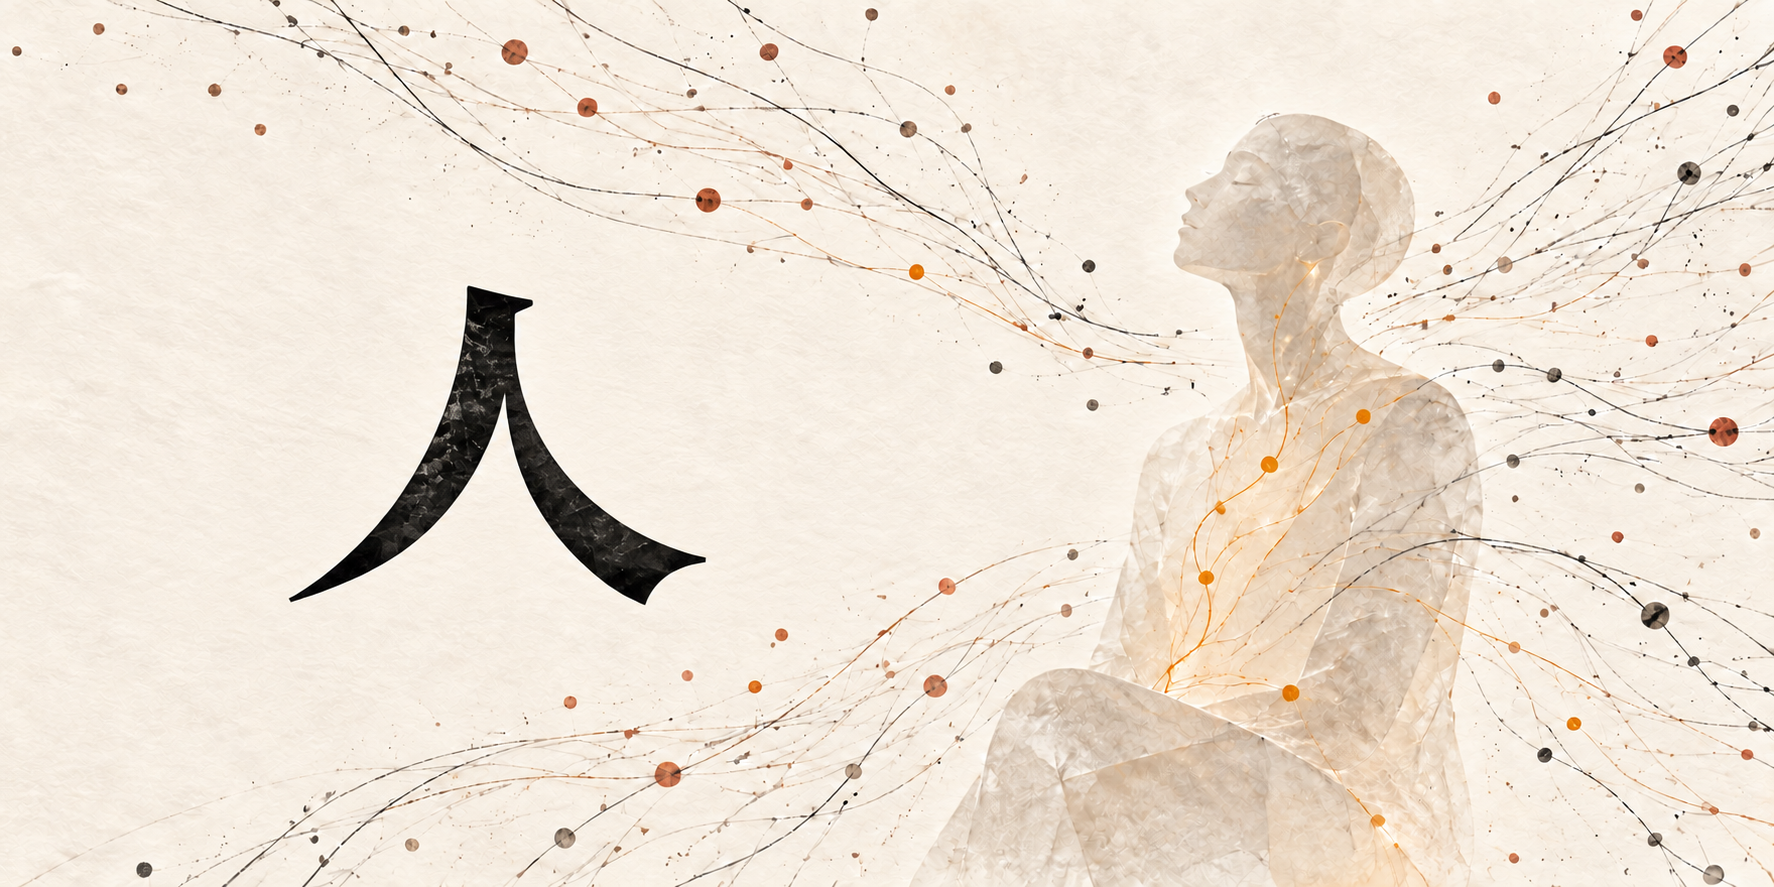
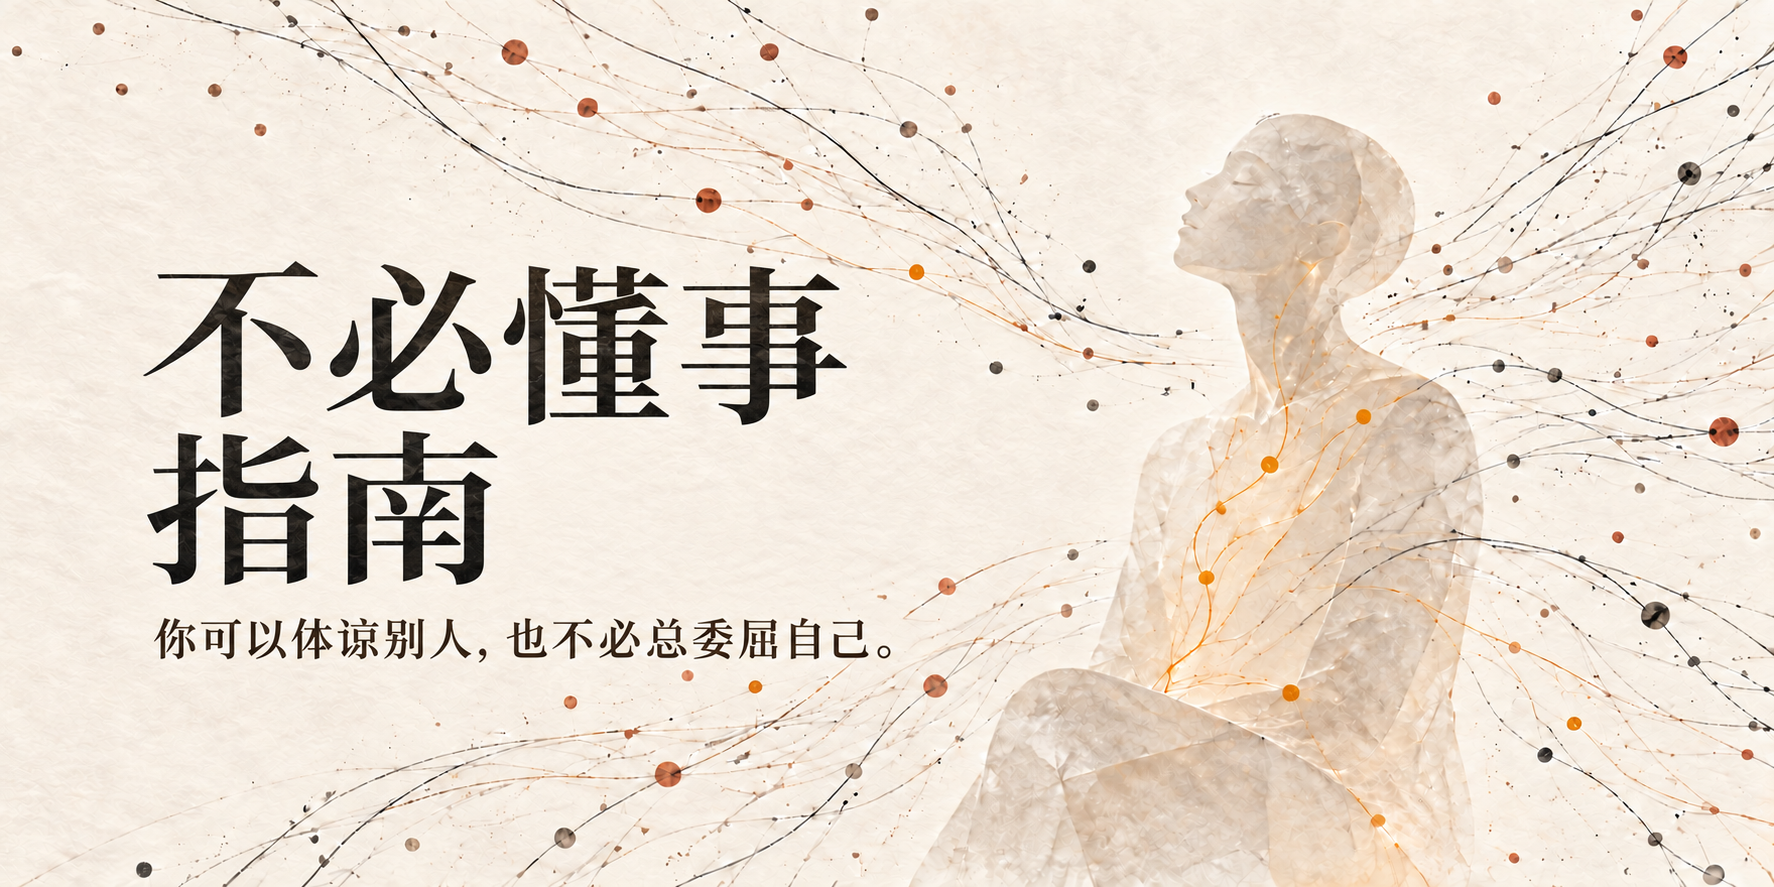
docs: rename Chinese handbook and prioritize Chinese reading

diff --git a/README.md b/README.md
@@ -1,30 +1,24 @@
-| [简体中文 · 人](./人.md) | [English · Human Enough](./human.en.md) |
-| :---: | :---: |
-| [![人：暖象牙白与陶土色封面](./assets/cover-zh.png)](./人.md) | [![Human Enough: mist blue, sage and gold cover](./assets/cover-en.png)](./human.en.md) |
+[![不必懂事指南：暖象牙白与陶土色封面](./assets/cover-zh.png)](./人.md)
 
-# Human Enough｜人
+# 不必懂事指南
 
 [![License: CC BY-SA 4.0](https://img.shields.io/badge/License-CC_BY--SA_4.0-lightgrey.svg)](https://creativecommons.org/licenses/by-sa/4.0/deed.zh-hans)
 
-**你接收到了很多信息，但你不欠每一条信息一个回应。**
-
-**You take in a lot of information. You don't owe every signal a response.**
+**你可以体谅别人，也不必总委屈自己。**
 
 一份写给容易注意到细节、习惯承担责任、反复解释自己的人的生活手册。
 
+不必懂事，是不必用忽略自己的需要，来换取别人的满意。该承担的责任仍然需要承担；体谅别人时，也可以给自己的需要留一个位置。
+
 它讨论：没回的消息、别人的情绪、拒绝后的愧疚、停不下来的复盘，以及那些让休息也变成考试的自我要求。
 
-A handbook for people who notice the details, take on responsibility, and keep explaining themselves. It explores unanswered messages, other people's feelings, guilt after saying no, endless mental replays, and the expectations that turn even rest into a test.
+## 阅读
 
-## 阅读 / Read
-
-### [简体中文：《人》](./人.md) · [English: Human Enough](./human.en.md)
+### [阅读全文：《不必懂事指南》](./人.md)
 
 每章从一个具体场景开始，留下一条可以采取的行动，以及一个可以结束处理的位置。
 
-Each chapter starts with an everyday scene, offers a possible action, and gives you a place to stop processing it.
-
-## 你会读到 / Chapters
+## 你会读到
 
 - 你看见了，不代表你要负责。
 - 没有人给你打分的时候，你也在交卷。
@@ -37,57 +31,28 @@ Each chapter starts with an everyday scene, offers a possible action, and gives 
 - 你已经很累了，不需要再成为一个更好的人。
 - 有些环境，确实需要离开。
 
-- Noticing it doesn't make it your responsibility.
-- No one is grading you, but you're still handing in the assignment.
-- You can disappoint someone without being a bad person.
-- Someone frowns, and you rewrite your entire life.
-- You don't have to keep proving you meant well.
-- Not every uncomfortable feeling needs to disappear immediately.
-- Some questions won't become clearer with more thinking.
-- You were the good kid; now you can learn to be a beginner.
-- You're already tired; you don't have to become a better person today.
-- Some environments really do need to be left.
+## 关于这份文档
 
-## 关于这份文档 / About
-
-当前为第一版，欢迎讨论和修订。这里的“高敏感”是生活体验的称呼，不是诊断；不需要先完成一个人格测试才能阅读。
+本手册原名《人》，现更名为《不必懂事指南》。欢迎讨论和修订。这里的“高敏感”是生活体验的称呼，不是诊断；不需要先完成一个人格测试才能阅读。
 
 正文区分生活整理与参考依据，不把“早熟的人一般都晚熟”当作心理学定律，也不把现实中的伤害归咎于个人敏感。专业支持的边界与参考资料见正文末尾。
 
-This is the first edition, open to discussion and revision. “High sensitivity” describes a lived experience here, not a diagnosis. No personality test is required. The text distinguishes everyday observations from reference material, treats sayings about early and late maturity as reflections rather than psychological laws, and does not blame real harm on someone's sensitivity. References and the limits of self-help appear at the end of each edition.
-
-## 如何参与 / Contributing
+## 如何参与
 
 欢迎通过 Issue 或 Pull Request 提交具体场景、反例、文字修改与有来源的参考材料。请说明建议适用于什么情况；分享经历时请去除个人身份、私人聊天和其他敏感信息。
 
 我们希望每个条目帮助读者少背一个不必要的任务。
 
-Issues and pull requests are welcome: specific scenes, counterexamples, wording improvements, and sourced references. Explain where your suggestion applies, and remove identifying details, private conversations, and other sensitive information from shared experiences. Translation improvements are welcome too.
+## 许可与转载
 
-We hope each entry helps readers put down one unnecessary obligation.
-
-## 许可与转载 / License and reuse
-
-© 2026 Chorylee7 与《人》贡献者。除另有注明外，本仓库的原创文字采用 [知识共享署名—相同方式共享 4.0 国际许可（CC BY-SA 4.0）](https://creativecommons.org/licenses/by-sa/4.0/deed.zh-hans)，完整条款见 [LICENSE](./LICENSE)。
+© 2026 Chorylee7 与《不必懂事指南》贡献者。除另有注明外，本仓库的原创文字采用 [知识共享署名—相同方式共享 4.0 国际许可（CC BY-SA 4.0）](https://creativecommons.org/licenses/by-sa/4.0/deed.zh-hans)，完整条款见 [LICENSE](./LICENSE)。
 
 允许转载、翻译、改编及商业使用；分享时请保留署名、来源和许可信息，标明修改，并按许可要求以相同或兼容的许可分享改编作品。不得暗示原作者为改编或使用背书。内容按现状提供，不作保证，具体以 LICENSE 为准。
 
 署名示例：
 
-> 来源：《人》，Chorylee7 与贡献者，https://github.com/Chorylee7/human-enough，CC BY-SA 4.0。本版本修改了……（未修改时注明“未修改”）。
+> 来源：《不必懂事指南》，Chorylee7 与贡献者，https://github.com/Chorylee7/human-enough，CC BY-SA 4.0。本版本修改了……（未修改时注明“未修改”）。
 
 外部链接指向的资料不属于本仓库的授权范围，仍适用各自的权利声明。`assets/` 中的封面为 AI 生成；对其中本项目有权许可的部分，同样采用 CC BY-SA 4.0，不主张不存在的权利。
 
 提交贡献即表示你有权提交相应内容，并同意将其按上述许可发布。
-
-© 2026 Chorylee7 and contributors to Human Enough (人). Unless otherwise noted, original text in this repository is licensed under [CC BY-SA 4.0](https://creativecommons.org/licenses/by-sa/4.0/). See [LICENSE](./LICENSE) for the full terms.
-
-Copying, translation, adaptation, and commercial use are permitted subject to the license. Retain attribution, source and license information, indicate changes, and share adaptations under the same or a compatible license as required. Do not imply endorsement by the original authors. The material is provided as-is, without warranties; the full license governs.
-
-Example attribution:
-
-> Source: Human Enough (人), Chorylee7 and contributors, https://github.com/Chorylee7/human-enough, CC BY-SA 4.0. Changes: … (or “Unmodified”).
-
-Linked external materials retain their own rights notices and are outside this repository's license. The covers in `assets/` are AI-generated; any rights this project is entitled to license in them are also offered under CC BY-SA 4.0. No rights are claimed where none exist.
-
-By contributing, you confirm that you have the right to submit your contribution and agree to its publication under the license above.

diff --git a/human.en.md b/human.en.md
@@ -2,13 +2,17 @@
 
 # Human Enough
 
-**人 · [简体中文](./人.md) | English**
+**不必懂事指南 · [简体中文](./人.md) | English**
 
-> You take in a lot of information. You don't owe every signal a response.
+> You can care about others without always putting your own needs aside.
 
 For people who notice the details, take on responsibility, and keep explaining themselves.
 
 Perhaps you've had an evening like this: the moment is long over, but you're still replaying a sentence, examining an expression, or trying to interpret a silence. You want to make sure you haven't offended anyone, disappointed anyone, or missed something you ought to fix.
+
+The Chinese edition is titled 《不必懂事指南》 (formerly 《人》). Its title invites you to make room for your needs, rather than earn approval by always putting them aside. You remain responsible for your actions, and you can care about others while respecting your own needs.
+
+You take in a lot of information. You don't owe every signal a response.
 
 This handbook helps you sort out what calls for action, what calls for rest, and what you can leave unanswered for now.
 
@@ -217,6 +221,6 @@ The chapter titles, scenes, sample phrases, and “You can stop here” passages
 
 ## License and reuse
 
-© 2026 Chorylee7 and contributors to Human Enough (人). This text is licensed under [CC BY-SA 4.0](https://creativecommons.org/licenses/by-sa/4.0/). See [LICENSE](./LICENSE) for the full terms. Copying, translation, adaptation, and commercial use are permitted subject to the license. When sharing, retain attribution, source and license information, indicate changes, and share adaptations under the same or a compatible license as required. The material is provided as-is, without warranties. External references remain subject to their respective rights notices.
+© 2026 Chorylee7 and contributors to Human Enough (不必懂事指南). This text is licensed under [CC BY-SA 4.0](https://creativecommons.org/licenses/by-sa/4.0/). See [LICENSE](./LICENSE) for the full terms. Copying, translation, adaptation, and commercial use are permitted subject to the license. When sharing, retain attribution, source and license information, indicate changes, and share adaptations under the same or a compatible license as required. The material is provided as-is, without warranties. External references remain subject to their respective rights notices.
 
-Source: [Human Enough (人)](https://github.com/Chorylee7/human-enough), Chorylee7 and contributors. This English edition is translated and adapted from the Chinese text in this repository.
+Source: [Human Enough (不必懂事指南)](https://github.com/Chorylee7/human-enough), Chorylee7 and contributors. This English edition is translated and adapted from the Chinese text in this repository.

diff --git a/人.md b/人.md
@@ -1,16 +1,16 @@
-![人：暖象牙白与陶土色封面](./assets/cover-zh.png)
+![不必懂事指南：暖象牙白与陶土色封面](./assets/cover-zh.png)
 
-# 人
+# 不必懂事指南
 
-**Human Enough**
-
-简体中文 | [English](./human.en.md)
-
-> 你接收到了很多信息，但你不欠每一条信息一个回应。
+> 你可以体谅别人，也不必总委屈自己。
 
 给容易注意到细节、习惯承担责任、经常反复解释自己的人。
 
 你可能经历过这样的晚上：事情早就结束了，你还在重播一句话，检查一个表情，猜测一段沉默。你想确认自己没有冒犯谁，没有让谁失望，没有漏掉什么必须处理的问题。
+
+不必懂事，是不必用忽略自己的需要，来换取别人的满意。该承担的责任仍然需要承担；体谅别人时，也可以给自己的需要留一个位置。
+
+你接收到了很多信息，但你不欠每一条信息一个回应。
 
 这份手册想陪你确认：哪些事情需要行动，哪些事情需要休息，哪些事情可以暂时不知道。
 
@@ -219,6 +219,6 @@
 
 ## 许可与转载
 
-© 2026 Chorylee7 与《人》贡献者。本篇原创文字采用 [CC BY-SA 4.0](https://creativecommons.org/licenses/by-sa/4.0/deed.zh-hans)，完整条款见 [LICENSE](./LICENSE)。允许转载、翻译、改编及商业使用；分享时请保留署名、来源及许可信息，标明修改，并按许可要求以相同或兼容的许可分享改编作品。内容按现状提供，不作保证。外部参考资料适用其各自的权利声明。
+© 2026 Chorylee7 与《不必懂事指南》贡献者。本篇原创文字采用 [CC BY-SA 4.0](https://creativecommons.org/licenses/by-sa/4.0/deed.zh-hans)，完整条款见 [LICENSE](./LICENSE)。允许转载、翻译、改编及商业使用；分享时请保留署名、来源及许可信息，标明修改，并按许可要求以相同或兼容的许可分享改编作品。内容按现状提供，不作保证。外部参考资料适用其各自的权利声明。
 
-来源：[《人》](https://github.com/Chorylee7/human-enough)，Chorylee7 与贡献者。
+来源：[《不必懂事指南》](https://github.com/Chorylee7/human-enough)，Chorylee7 与贡献者。

diff --git a/assets/cover-pair-prompts.md b/assets/cover-pair-prompts.md
@@ -4,7 +4,9 @@
 
 ## 中文 / cover-zh.png
 
-> Edit this cover into the Chinese member of a coordinated pair of editorial covers. Exact title text only '人', large refined black Chinese typography in the left half. Remove English text. Preserve the 2:1 wide format, translucent paper human silhouette on the right, fine flowing threads and specks that mostly drift past, and tactile handmade paper aesthetic. Warm ivory paper, muted terracotta and apricot accents, warm graphite threads. Give the single Chinese character generous breathing room and strong visual presence. Quiet sophisticated literary cover. No other text, no watermark.
+2026-10-11 更名更新：使用 OpenAI 内置 imagegen 编辑原中文封面，输出保存为 `assets/cover-zh.png`。
+
+> Use case: text-localization. Edit target: the supplied Chinese handbook cover. Preserve the wide 2:1 format, warm ivory tactile paper, translucent paper human silhouette on the right, graphite threads, terracotta and apricot specks, orange lines, and quiet literary aesthetic. Replace the single large Chinese character 人 in the left area with the exact title 不必懂事指南, arranged on two spacious lines: 不必懂事 / 指南. Beneath it add the exact smaller subtitle 你可以体谅别人，也不必总委屈自己。 in an elegant readable Chinese font. Make all Chinese text accurate, dark and legible. Adjust only typography and the immediate text area to accommodate the longer title; preserve the illustration and palette. No other text, no watermark.
 
 ## English / cover-en.png
 

diff --git a/assets/cover-prompt.md b/assets/cover-prompt.md
@@ -1,8 +1,10 @@
 # 封面设计记录
 
-当前封面标题：人 / Human Enough。使用内置 imagegen 在原封面上编辑标题，保留纸张、人形和信息流构图。
+当前封面标题：不必懂事指南 / Human Enough。中文副标题：你可以体谅别人，也不必总委屈自己。使用内置 imagegen 在原封面上编辑标题，保留纸张、人形和信息流构图。
 
-双语版编辑提示词：
+## 历史双语封面
+
+以下为原名《人》时期的双语版编辑提示词：
 
 > Edit the provided GitHub cover. Change only the title typography in the left open area. Remove '人.md' and replace it with a bilingual editorial title: large Chinese '人', with English 'Human Enough' on a separate line underneath in elegant black serif typography. Exact text only: '人' and 'Human Enough'. Both lines should be clearly legible at GitHub README display size, with balanced hierarchy and generous spacing. Preserve the wide 2:1 composition, warm off-white textured paper, translucent paper human silhouette on the right, all graphite threads and specks, orange signal lines, colors, lighting, and poetic handmade printmaking style. Do not add any other text or alter the illustration.
 
